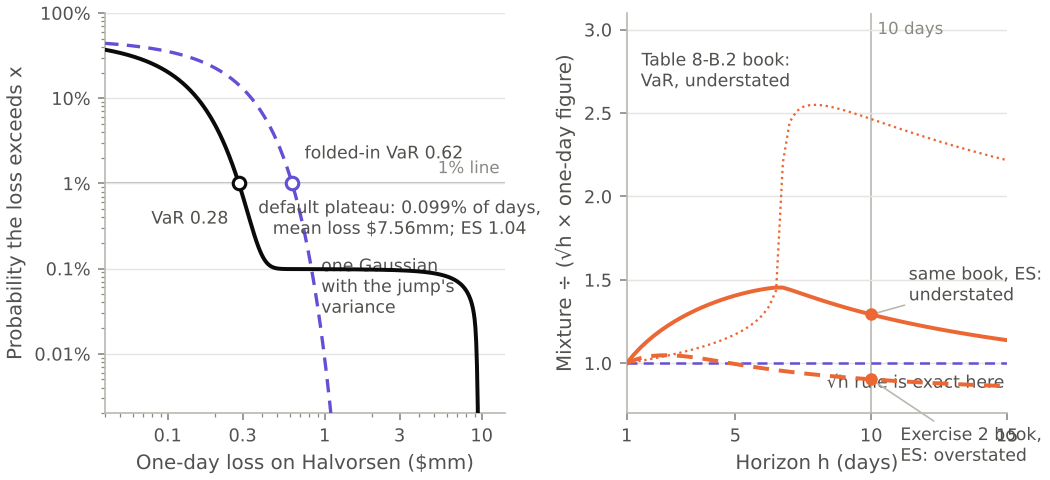
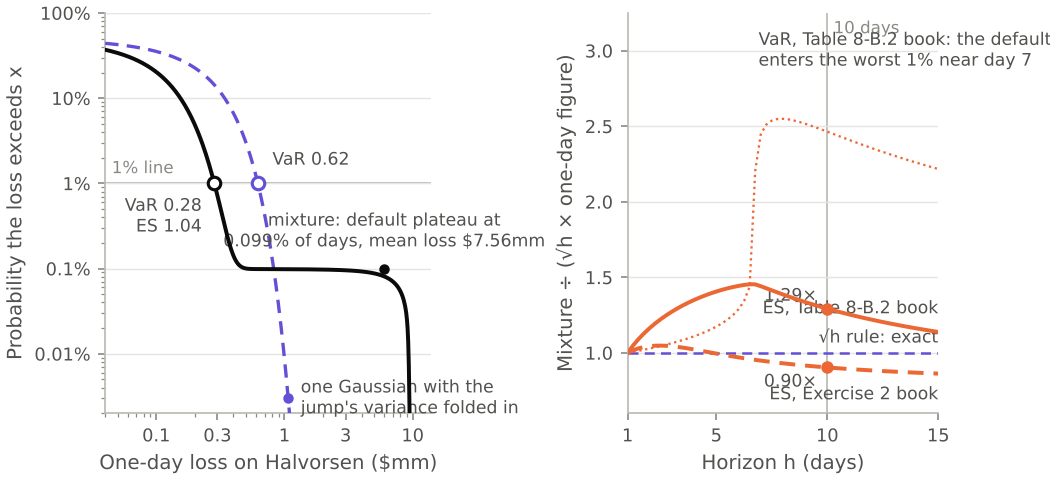
Snapshot: in-flight Edition 2 work
Claude-Session: https://claude.ai/code/session_01PHHQVL5vNoxjdDFeTkxsPq

diff --git a/tools/figures/ch08b.py b/tools/figures/ch08b.py
@@ -296,7 +296,7 @@ def fig_mixture_traps():
         b.annotate(f"{arr[iA]:.2f}\u00d7", (10, arr[iA]), xytext=(-5, dy), textcoords="offset points",
                    ha="right", va="center", fontsize=8.3, color=INK_2)
     print("mixture figure:", f"Halvorsen VaR {var_h:.3f}, ES {es_h:.3f}, folded sd {sd_blend:.3f}, folded VaR {var_b:.3f};",
-          f"ES ratio at 10d: A {res['A'][0][iA]:.2f}, B {res['B'][0][iB]:.2f}; VaR ratio A {res['A'][1][iA]:.2f}")
+          f"ES ratio at 10d: A {res['A'][0][iA]:.2f}, B {res['B'][0][iA]:.2f}; VaR ratio A {res['A'][1][iA]:.2f}")
     return finish(fig, "ch08b_mixture_traps")
 
 

diff --git a/book_src/14_ch14_default_and_recovery_cycle_lmt_era.md b/book_src/14_ch14_default_and_recovery_cycle_lmt_era.md
@@ -577,6 +577,50 @@ Two refinements carry most of the realism.
 
 > **View From Another Seat.** *The CLO manager: a co-op'd loan is a position you may not be able to sell in time.* To the CLO manager of §14.1, a co-op is less a strategy than a liquidity term. Joining one may be the only way to avoid being primed, but the buyers a signer may sell to are, in a stressed name, mostly funds that are already inside. If the loan is downgraded to CCC in the meantime, the manager can reach a CCC-bucket or overcollateralization test date holding a position it cannot move before the trustee report, with the overflow marked the way §14.1 describes, whatever the manager thinks the loan is worth. The public worry from this side of the market is less about any one co-op than about the maturity wall that makes co-ops necessary. Loomis Sayles' Full Discretion team, a large loan investor, wrote in its fourth-quarter 2025 letter that "we do believe the risk of liability management exercises will remain elevated as not all these maturities are refinanceable," in the same letter in which it saw "low risk of downturn in 2026" (Loomis Sayles, Q4 2025 letter, January 2026). That pairing, a benign cycle and elevated LME risk, is the two-axis world of §14.4 in a practitioner's words: the macro regime and the coalition regime are different dials. For this seat the question is not $\Pi(c)$. It is whether $c$ comes with a transfer restriction that will bind before the next test date.
 
+The Ad Hoc Group, represented by counsel, speaks in unison: *"We have signed a cooperation agreement. We decline to transact with the Company on a non-pro-rata basis. We note that there are forty-four other groups saying the same thing this year."* (Cooperation agreements signed in this book so far: two, plus forty-five in 2024 alone. The counter has overflowed its integer type.)
+
+#### The courts calendar, or Optimum one docket entry at a time
+
+*(The desk, its calendar and every line of dialogue are fictional; each docket entry, filing and figure is public record and cited.)*
+
+Every Monday at 8:15 a.m., before the European runs are digested, Theo updates the courts calendar. It is the least glamorous job on the desk and the one he was given in his first week, on the theory that a former restructuring banker would at least know what a docket is. The calendar has one row per legal event that could move a recovery: the date, the forum, the judge, the contract words or doctrine at issue, the direction for the excluded holders, and a column headed `status` that is almost always `pending`. It feeds the courts table in §14.6 and, through it, the regime filter in §14.7. Most Mondays Theo reads scheduling orders and notices of appearance and writes `no change` thirty times. Ines says this is the most important thirty minutes of his week. Theo suspects she says it to everyone who has the job.
+
+Optimum is the row that never sits still. Theo inherited it with a dozen entries and read them end to end on his first Monday, which is how he found out that they read like a thriller written by a court clerk.
+
+It starts in June 2024, when lenders to CSC Holdings, the main borrowing group of the cable company then called Altice USA and since renamed Optimum Communications, signed a cooperation agreement that claimed about 99% of CSC's roughly \$21.8bn of debt. On the threshold arithmetic of §14.5.1 that is the end of the uptier channel. With coverage of 99% and a bare-majority amendment threshold, nearly half the co-op would have to defect before a sponsor could build a majority, and the co-op itself, as the company later described it, barred its members from dealing with the company unless a two-thirds supermajority of them agreed. Kaz runs the numbers on a napkin and gets a breaking probability so small that the floating-point type complains. "The table agreed not to be bluffed," says Ines. "So watch what the sponsor does instead."
+
+What the company did instead was the two things the model says a fully covered borrower will do: go around the table, and sue it.
+
+On 25 November 2025 Optimum and CSC Holdings sued their co-op lenders in the Southern District of New York (*Optimum Communications, Inc. v. Apollo Capital Management, L.P.*, No. 1:25-cv-09785). The named defendants include Apollo, Ares and BlackRock, along with other large credit managers. The theory is antitrust: price-fixing and a group boycott under section 1 of the Sherman Act, on the argument that lenders who agree to deal with a borrower only as a bloc are a cartel in the market for leveraged finance. The complaint alleges the co-op lenders hold 88% of a "Leveraged-Finance Market" that the complaint defines for itself (Cleary Gottlieb, 18 December 2025). CreditSights reported "significant bond price declines" the next day, without publishing cents. The entry for that day reads: direction for the co-op lenders, negative if the suit survives; direction for the bonds, already answered by the market.
+
+"Group boycott," says Kaz, reading over Theo's shoulder. "Is that when the lenders all refuse to go to the company's Christmas party?"
+
+"Close enough to be dangerous," says Mags. "It's when competitors agree not to deal with someone. The question is whether lenders to one borrower are competitors at all, or one class with one interest. *Sharon Steel* says the competition happens when the debt is issued. The company says blocking access to new credit is something else." She shrugs. "Back in my day we'd have called it a steering committee and gone to lunch."
+
+On 6 February 2026 the defendants moved to dismiss; an amended complaint followed in February. On 19 February Judge Jeannette Vargas declined to stay discovery while the motion was pending, which means that the lenders' internal emails about the co-op began to be a thing that could be read, whatever happened to the motion. Trade groups for lenders and asset managers, the LSTA among them, filed amicus briefs in support of dismissal in late March. The calendar acquired a second Optimum row that spring, and then a third, and Hana's pipeline acquired a field called `discovery_open` that nobody had needed before.
+
+Then, at the end of May, the other move. In an 8-K filed on 1 June 2026, Optimum disclosed that it had moved Optimum East and its 50.01% stake in Lightpath, its fiber business, into an unrestricted subsidiary, "Unsub Topco," which sold \$300mm of preferred on 29 May. An unrestricted subsidiary sits outside the restricted group whose assets back CSC's debt, which is the whole point of putting assets there. It is $\lambda_{\text{away}}$ in a press release: a transaction that needs no vote from the class because it happens somewhere the class cannot reach.
+
+"Unsub Topco," says Theo, to nobody in particular, reading the row. "The subsidiary the lenders can't follow."
+
+On 30 June 2026 the quarterly report said the rest out loud. Optimum's 10-Q for the second quarter disclosed principal of about \$4.12bn maturing in April 2027 and \$2.225bn in July 2027, against cash and equivalents of about \$1.30bn, and concluded that without committed financing there was substantial doubt about the company's ability to continue as a going concern (Optimum 10-Q, period ended 30 June 2026). On 4 August 2026 the court confined discovery to a court-defined "phase one" (ECF 132). As of mid-October 2026, the row for the motion to dismiss still says `pending`.
+
+He reads the row aloud at the Monday meeting, and for once nobody says "no change." The re-default clock is running toward April 2027 with no cure in sight. The coalition variable is at its maximum and has pushed the action out of the uptier channel and into the drop-down channel. And the court variable is live in two directions at once: a pending ruling on whether the co-op is lawful, and a discovery process that may decide what co-op lenders are willing to say to each other in writing from now on.
+
+"So the table agreed not to be bluffed," says Mags, "and the borrower sued the table."
+
+Kaz has the napkin out again. "A commitment device strong enough to move $\Pi(c)$ by four orders of magnitude is strong enough to get sued. And I can't estimate the chance that a court calls it unlawful, because the history has no such ruling in it."
+
+"Then it goes in as a scenario with a date," says Ines, "not a parameter."
+
+"Which side are we?" asks Kaz.
+
+"Neither," says Ines. "We're the dealer. Which is its own seat." The dealer's seat closes §14.9. The fund that wants to own the table comes first.
+
+> **View From Another Seat.** *The opportunistic or special-situations fund: the co-op is the product.* For a fund whose edge is documents, counsel and a willingness to be restricted for months, a co-op is not a defensive necessity. It is the thing being sold. Buy enough of a class to matter, organize the rest of the class around you, and the sponsor must negotiate with your group or go around it, and going around it is expensive and, after Optimum, litigated. The public example is Veritas in 2024. Elliott and allied holders of more than half of Veritas's \$2.5bn of loans and \$1.8bn of bonds objected to Carlyle's proposal, which they said paid under 60 cents in cash, and "have already formed their own 'co-operation agreement'" (Hedgeweek, 25 June 2024, citing the *Financial Times*). From this seat a thirty-cent bond is an option on a negotiation, and the fund wants to own the blocking position in the vote rather than forecast it. For a systematic desk, a known blocker accumulating in a name is a state variable: the hazard of a non-pro-rata deal falls, the variance of recovery rises, and the RFQ flow from that kind of fund, like the one-way request in the cold open, is information about which hump the paper is heading for.
+
+That may be the seat the cold open's buyer is sitting in. The ledger behind Theo's Optimum row, and behind the other co-ops of 2024, closes the section.
+
 > **Trend Watch.** *Co-ops, from four a year to forty-five.*
 > - **Counts.** About 45 co-op agreements were signed in the US in 2024, against an average of about four a year over 2018–2023, a figure 9fin notes was cited in Optimum's antitrust complaint (9fin, *A Crash Course on Co-ops*).
 > - **Variants.** Offensive, defensive, and carve-out co-ops, with carve-out the fastest-growing. In event studies, equity reacts negatively to co-op announcements and firm value rises modestly (Seaton, HLS Bankruptcy Roundtable, 14 April 2026).
@@ -585,40 +629,6 @@ Two refinements carry most of the realism.
 > - **The antitrust front.** Optimum (f/k/a Altice USA) and CSC Holdings sued the co-op lenders in the S.D.N.Y. under the Sherman Act, alleging price-fixing and a group boycott. The complaint alleges the co-op lenders hold 88% of a "Leveraged-Finance Market" it defines itself (Cleary Gottlieb, *Cooperation, Not a Cartel*, 18 December 2025). Defenses include rule-of-reason analysis, market definition, and *Sharon Steel v. Chase Manhattan* (2d Cir. 1982). Similar challenges (Optimum, Selecta) were "in their early days" in early 2026 (Wachtell, 3 February 2026).
 > - **Europe.** Baker McKenzie's January 2026 leveraged finance report describes "a growing backlash against cooperation agreements" in 2025, as non-pro-rata deals at Victoria PLC, Ardagh, Selecta and Hunkemöller used intercreditor clauses and slim majority thresholds.
 > - **What it means for the desk.** Co-op coverage $c$ is now a first-class feature in the non-pro-rata hazard and in stage 0 of the recovery model. High coverage moves risk from the uptier channel to the drop-down and deal-away channel, so it shifts $\lambda_{\text{away}}$ up even as it pushes $\Pi(c)$ down. And the legal status of the co-op itself is a regime variable with a pending date.
-
-The Ad Hoc Group, represented by counsel, speaks in unison: *"We have signed a cooperation agreement. We decline to transact with the Company on a non-pro-rata basis. We note that there are forty-four other groups saying the same thing this year."* (Cooperation agreements signed in this book so far: one in Chapter 3, plus forty-five in 2024 alone. The counter has overflowed its integer type.)
-
-**The courts calendar, or Optimum one docket entry at a time.** Every Monday at 8:15 a.m., before the European runs are digested and long before anything interesting happens, Theo updates the courts calendar. It is the least glamorous job on the desk and the one he was given in his first week, on the theory that a former restructuring banker would at least know what a docket is. The calendar is a table with one row per legal event that could move a recovery: the date, the forum, the judge, the contract words or doctrine at issue, the direction for the excluded holders, and a column headed `status` that is almost always `pending`. It feeds the courts table in §14.6 and, through it, the regime filter in §14.7. Most Mondays nothing changes. Theo opens the docket for each live case, reads the new entries, finds that they are scheduling orders and notices of appearance, and writes `no change` thirty times. Ines says this is the most important thirty minutes of his week. Theo suspects she says it to everyone who has the job.
-
-Optimum is the row that never sits still, and laid end to end its entries read like a thriller written by a court clerk.
-
-It starts in June 2024, when lenders to CSC Holdings, the main borrowing group of the cable company then called Altice USA and since renamed Optimum Communications, signed a cooperation agreement that claimed about 99% of CSC's roughly \$21.8bn of debt. On the threshold arithmetic of §14.5.1 that is the end of the uptier channel. With coverage of 99% and a bare-majority amendment threshold, nearly half the co-op would have to defect before a sponsor could build a majority, and the co-op itself, as the company later described it, barred its members from dealing with the company unless a two-thirds supermajority of them agreed. Kaz runs the numbers on a napkin and gets a breaking probability so small that the floating-point type complains. "The table agreed not to be bluffed," says Ines. "So watch what the sponsor does instead."
-
-What the company did instead was the two things the model says a fully covered borrower will do: go around the table, and sue it.
-
-On 25 November 2025 Optimum and CSC Holdings sued their co-op lenders in the Southern District of New York (*Optimum Communications, Inc. v. Apollo Capital Management, L.P.*, No. 1:25-cv-09785). The named defendants include Apollo, Ares and BlackRock, along with other large credit managers. The theory is antitrust: price-fixing and a group boycott under section 1 of the Sherman Act, on the argument that lenders who agree to deal with a borrower only as a bloc are a cartel in the market for leveraged finance. The complaint alleges the co-op lenders hold 88% of a "Leveraged-Finance Market" that the complaint defines for itself (Cleary Gottlieb, 18 December 2025). CreditSights reported "significant bond price declines" the next day, without publishing cents. Theo adds a row. Direction for the co-op lenders: negative if the suit survives. Direction for the bonds: the market had already told him.
-
-"Group boycott," says Kaz, reading over his shoulder. "Is that when the lenders all refuse to go to the company's Christmas party?"
-
-"Close enough to be dangerous," says Mags. "It's when competitors agree not to deal with someone. The question is whether lenders to one borrower are competitors at all, or one class with one interest. *Sharon Steel* says the competition happens when the debt is issued. The company says blocking access to new credit is something else." She shrugs. "Back in my day we'd have called it a steering committee and gone to lunch."
-
-On 6 February 2026 the defendants moved to dismiss; an amended complaint followed in February. On 19 February Judge Jeannette Vargas declined to stay discovery while the motion was pending, which means that the lenders' internal emails about the co-op began to be a thing that could be read, whatever happened to the motion. Trade groups for lenders and asset managers, the LSTA among them, filed amicus briefs in support of dismissal in late March. Theo's calendar acquires a second Optimum row, and then a third, and Hana's pipeline acquires a field called `discovery_open` that nobody had needed before.
-
-Then, at the end of May, the other move. In an 8-K filed on 1 June 2026, Optimum disclosed that it had moved Optimum East and its 50.01% stake in Lightpath, its fiber business, into an unrestricted subsidiary, "Unsub Topco," which sold \$300mm of preferred on 29 May. An unrestricted subsidiary sits outside the restricted group whose assets back CSC's debt, which is the whole point of putting assets there. It is $\lambda_{\text{away}}$ in a press release: a transaction that needs no vote from the class because it happens somewhere the class cannot reach.
-
-"Unsub Topco," says Theo, to nobody in particular, as he types the row. "The subsidiary the lenders can't follow."
-
-On 30 June 2026 the quarterly report said the rest out loud. Optimum's 10-Q for the second quarter disclosed principal of about \$4.12bn maturing in April 2027 and \$2.225bn in July 2027, against cash and equivalents of about \$1.30bn, and concluded that without committed financing there was substantial doubt about the company's ability to continue as a going concern (Optimum 10-Q, period ended 30 June 2026). On 4 August 2026 the court confined discovery to a court-defined "phase one" (ECF 132). As of mid-October 2026, Theo's row for the motion to dismiss still says `pending`.
-
-He reads the row aloud at the Monday meeting, and for once nobody says "no change." The row is the whole chapter in one name. The re-default clock is running toward April 2027, with no cure in sight. The coalition variable is at its maximum, 99% coverage, and has pushed the action out of the uptier channel and into the drop-down channel, exactly as the Trend Watch box above predicts. The court variable is live in two directions at once: a pending ruling on whether the co-op is lawful, and a discovery process that may decide what the co-op lenders are willing to say to each other in writing from now on. And the recovery for any holder depends less on the word "first" in the loan's name than on which side of the table it sits on when the April 2027 wall arrives.
-
-"Which side are we?" asks Kaz.
-
-"Neither," says Ines. "We're the dealer. Which is its own seat." She means the next two boxes, and the one at the end of §14.9.
-
-Optimum sued them for being a cartel. The table agreed not to be bluffed, and the borrower sued the table. The model lesson is that a commitment device strong enough to change $\Pi(c)$ by four orders of magnitude is strong enough to draw antitrust scrutiny. The probability that a court treats co-ops as unlawful belongs in the model as a scenario with a date, not as a parameter estimated from history, because the history has no such ruling in it yet.
-
-> **View From Another Seat.** *The opportunistic or special-situations fund: the co-op is the product.* For a fund whose edge is documents, counsel and a willingness to be restricted for months, a co-op is not a defensive necessity. It is the thing being sold. Buy enough of a class to matter, organize the rest of the class around you, and the sponsor must negotiate with your group or go around it, and going around it is expensive and, after Optimum, litigated. The public example is Veritas in 2024. Elliott and allied holders of more than half of Veritas's \$2.5bn of loans and \$1.8bn of bonds objected to Carlyle's proposal, which they said paid under 60 cents in cash, and "have already formed their own 'co-operation agreement'" (Hedgeweek, 25 June 2024, citing the *Financial Times*). From this seat a thirty-cent bond is an option on a negotiation, and the fund wants to own the blocking position in the vote rather than forecast it. For a systematic desk, a known blocker accumulating in a name is a state variable: the hazard of a non-pro-rata deal falls, the variance of recovery rises, and the RFQ flow from that kind of fund, like the one-way request in the cold open, is information about which hump the paper is heading for.
 
 ## 14.6 The Courts as a Regime Variable
 

diff --git a/book_src/13_ch13_codifying_lmt_game_theory.md b/book_src/13_ch13_codifying_lmt_game_theory.md
@@ -791,7 +791,7 @@ and the quote is approximately $P \approx P_{\text{no-LMT}} - 100\cdot\text{EPL}
 
 That check opens onto the larger judgment about what the PRS is for. It is good at ranking. Within one vintage of documents and one forum, a name scored 0.19 is more likely to see an LMT next year than a name scored 0.05, and the ordering survives most of the ways the model can be misspecified. It is much worse at levels, and three things break the level. The first is vintage. Buccola and Nini found that before 2020 only 40% of loans restricted uptiers, and that by mid-2022, 85% of new loans explicitly blocked them (Trend Watch, §13.3). A base rate fitted on the earlier documents describes a population that no longer exists, which is why the prior's mean comes from events in documents of the same vintage. The second is forum. Courts in Texas and New York read buyback exceptions for the borrower, against it, and for it again within about two years (§13.9), and a score with a static forum coefficient averages across a sign flip. The third is the holder block, which the score sees only dimly. `holder_hhi` and `coop_reported` arrive late and dirty (Priya's Tuesday in §13.6), and Robertshaw showed that a Required-Lender position can be bought quietly in a single month (§13.4). A desk that uses the PRS to decide which forty documents to read first is using it well. A desk that multiplies a PRS of 0.19 by three other factors and quotes the product to the second decimal has mistaken a ranking for a measurement, and the EPL inherits the false precision.
 
-> **Ways This Blows Up.** *Separation.* On the training data, `loan_px < 80` and `runway_months < 9` together nearly separate events from non-events. An unpenalized logistic responds by sending those coefficients toward infinity and reporting a PRS of 1.000 for every distressed name, which is confident and useless. The Gaussian prior keeps $\hat\beta$ finite. The prior's most important covariate is Theo's 13-week model, reborn as `runway_months`: the spreadsheet he carries for emotional support is now the only thing standing between the desk and an infinite coefficient.
+> **Ways This Blows Up.** *Separation.* On the training data, `loan_px < 80` and `runway_months < 9` together nearly separate events from non-events. An unpenalized logistic responds by sending those coefficients toward infinity and reporting a PRS of 1.000 for every distressed name, which is confident and useless. The Gaussian prior keeps $\hat\beta$ finite. The covariate doing most of the separating is Theo's `runway_months` (§13.2.1); without the prior, his runway would earn an infinite coefficient.
 
 #### The Full Derivation: the MAP estimate and its two limits
 
@@ -817,7 +817,7 @@ with boundary conditions $\tau \to \infty \Rightarrow \Lambda \to 0$ (the MLE) a
 
 **Schemas.** `entities`: `id` (str), `value` (float, \$mm, $\ge 0$), `parent` (entity id or `None`). `claims`: `id`, `creditor` (`"ext"` or entity id), `debtor` (entity id), `face` (\$mm, $>0$), `rank` (int, 1 = most senior), `reduce_by` (list of claim ids on the same debt owed by co-obligors). `features`: one row per borrower-year, columns as in the §13.2.1 table; `buyback_exception` one-hot; `y` = 1 if an LMT closed within 12 months. **Edge cases:** no claims at an entity (all value is residual); $N = 0$ or $p = 1$ in the uptier (guard the divisions); co-op share above $1 - \theta$ (return `None`, never an empty coalition); burn $\le 0$ in the runway (cap at 120 months); quasi-separation (prior required, never `tau=inf` in production). **Stability:** overflow-safe logistic via `tanh`; `logaddexp` in the likelihood; Newton steps with step-halving; clearing iteration capped at 10,000 with a convergence error, not a silent return.
 
-The closed form in §13.7 is a pleasure to derive and a trap to deploy. It knows about one SPV, one guarantee and one first lien that holds still. Trinseo had a revolver ahead of everything, Super HoldCo lenders with a pledge over a \$1,508mm intercompany claim, OpCo lenders sitting on 2 to 9 cents, and a lawsuit about whether the make-wholes belong in the denominator at all. Nobody solves that by hand on the morning a disclosure statement drops, and Theo's 13-week model, which has never met a subsidiary that owns a lender, will not help. What a desk wants is one function that takes whatever the parser pulled out of the documents (who owes whom, how much, at what rank, who owns which entity) and returns recoveries that add up to the value in the structure, every time. "Adds up" is the part ROBO can be tested on, so it is the part the listing is built around.
+The closed form in §13.7 is a pleasure to derive and a trap to deploy. It knows about one SPV, one guarantee and one first lien that holds still. Trinseo had a revolver ahead of everything, Super HoldCo lenders with a pledge over a \$1,508mm intercompany claim, OpCo lenders sitting on 2 to 9 cents, and a lawsuit about whether the make-wholes belong in the denominator at all. Nobody solves that by hand on the morning a disclosure statement drops. What a desk wants is one function that takes whatever the parser pulled out of the documents (who owes whom, how much, at what rank, who owns which entity) and returns recoveries that add up to the value in the structure, every time. "Adds up" is the part ROBO can be tested on, so it is the part the listing is built around.
 
 `waterfall_clearing` takes two inputs. `ents` maps each entity to its external `value` (\$mm) and its `parent`, with `None` marking the top of the tree. `claims` lists the `creditor` (`"ext"` or another entity), `debtor`, `face`, `rank` (1 is most senior) and an optional `reduce_by` list of claim ids, meaning that whatever a co-obligor has already paid on the same debt comes off what this claim may still assert. It returns payments by claim id and the equity left at the top.
 
@@ -843,7 +843,7 @@ The edge case that bites is $p = 1$. Nobody is excluded, so `uptier` returns `na
 
 The 89 are all the literature has. A logistic regression with a dozen features and 89 positives will fit anything you hand it and, when the distressed names separate cleanly from the rest, report a PRS of 1.000 with a straight face. The desk's answer is not to give up but to say, in code, what it believed before the data arrived: a prior on each slope from the published studies, and a Beta prior on the base rate so the intercept cannot wander to wherever the sample happened to put it. Then it proves the shrinkage is a dial rather than a fog by turning the dial to each end. The last lines of the listing do what the desk actually wants: multiply the PRS by the other three factors and print one number in points, which Ines can hold up against a bid.
 
-The listing runs on synthetic borrower-years so the fitter can be graded against known coefficients. `simulate` draws 400 rows of five features (blocker, unsub capacity, loan price, runway, repeat sponsor), `BETA_TRUE` generates the events, and `brentq` solves the intercept so that about 15% of rows come out positive. `BETA_PRIOR` is the "published" prior: right signs, smaller magnitudes. `runway_months` is Theo's 13-week model reduced to one function, capped at 120 when burn is zero or negative.
+The listing runs on synthetic borrower-years so the fitter can be graded against known coefficients. `simulate` draws 400 rows of five features (blocker, unsub capacity, loan price, runway, repeat sponsor), `BETA_TRUE` generates the events, and `brentq` solves the intercept so that about 15% of rows come out positive. `BETA_PRIOR` is the "published" prior: right signs, smaller magnitudes. `runway_months` is the §13.2.1 definition, capped at 120 months when burn is zero or negative.
 
 `fit_map(Z, y, prior, tau, a, b)` returns the intercept and slopes on standardized features. It maximizes the posterior of §13.8: the logistic likelihood, a Gaussian $\mathcal{N}(\text{prior}, \tau^2)$ on each slope, and a Beta$(a, b)$ on $\sigma(\beta_0)$, with defaults $a = 2$, $b = 38$, a 5% base rate worth forty pseudo-observations. Newton steps use an analytic gradient and Hessian, and each step is halved until it stops raising the negative log posterior. Setting `tau=np.inf` with `a=b=0` gives the plain MLE, which is how the listing proves both limits of the shrinkage formula: a huge `tau` reproduces the MLE, a tiny one returns the prior. The other checks: the intercept first-order condition holds to 1e-6; the mean fitted PRS stays within 1.5 points of the observed rate; a 200-resample bootstrap band covers the estimate; a blocker lowers the score and unsub capacity raises it; and on a fresh holdout the fit beats the constant base rate on Brier score.
 

diff --git a/book_src/02_ch02_revolutions_in_credit_trading.md b/book_src/02_ch02_revolutions_in_credit_trading.md
@@ -491,9 +491,7 @@ $$
 
 The odds of filling must exceed the ratio of leakage cost to savings. With the BBB line's numbers, $c_A = 4$ bp, $\pi_A = 0.55$, $J_R = 0.90 \times 7 + 0.10 \times 20 = 8.3$ bp (with $\kappa = 20$ bp) and $\chi_A = 1.5$ bp, the threshold is $1.5/4.3 = 0.35$, the fill odds are $0.55/0.45 = 1.22$, and $J_{A\to R} = 2.2 + 0.45 \times 9.8 = 6.6$ bp against 8.3 bp for going straight to dealers.
 
-> **Ways This Blows Up.** *Fair-weather parameters.* Every number in the router was estimated on 2023–2025 data, mostly in calm markets. In stress, dealers widen their algorithm parameters or switch them off, fill rates fall and leakage rises, and all of it happens at once. Buy-side traders at FILS Europe in 2026 said platforms and electronic liquidity providers "help mainly in normal markets" (The DESK, Oct 2026). In March 2026, median EUR IG bid-ask rose to 64% above its January average, and it took 4 weeks (EUR IG), 6 (US HY), 8 (US IG) and 13 (EUR HY) to normalize (MarketAxess data via The DESK, Oct 1, 2026). A router trained on the calm sample will be most confident on exactly the day it is most wrong. Condition $\pi_p$, $c_p$ and $\chi_p$ on a stress regime variable (§2.7 offers one: the ETF–NAV basis), and give the kill switch to a human.
-
-<!-- CHECK: trend_part_v dossier (2026-10-15 row) quotes the FILS panel as "help more in quiet markets"; the box above says "help mainly in normal markets". Reconcile against The DESK article. -->
+> **Ways This Blows Up.** *Fair-weather parameters.* Every number in the router was estimated on 2023–2025 data, mostly in calm markets. In stress, dealers widen their algorithm parameters or switch them off, fill rates fall and leakage rises, and all of it happens at once. At FILS Europe in 2026, a Swiss Life Asset Managers trader said platforms and electronic liquidity providers "help more in quiet markets or normal market conditions" (The DESK, 15 Oct 2026). In March 2026, median EUR IG bid-ask rose to 64% above its January average, and it took 4 weeks (EUR IG), 6 (US HY), 8 (US IG) and 13 (EUR HY) to normalize (MarketAxess data via The DESK, Oct 1, 2026). A router trained on the calm sample will be most confident on exactly the day it is most wrong. Condition $\pi_p$, $c_p$ and $\chi_p$ on a stress regime variable (§2.7 offers one: the ETF–NAV basis), and give the kill switch to a human.
 
 Automation, then, pushed $\Pr(\text{fill})$ on small, calm lines close to a constant, and it turned $\mathbb{E}[c]$ from a measurement into a forecast: a forecast that is good in exactly the weather it was trained in.
 
@@ -665,7 +663,7 @@ Theo is quiet for a moment, because his own corner of March 2020 was very differ
 
 That sentence is what the BIS later spent a quarterly review establishing. Todorov's study of bond-ETF arbitrage (*BIS Quarterly Review*, March 2021) measured tracking errors above 200 bp in March 2020, against a historical average of 0.7 bp. The band of §2.7.1 had not broken. Its two terms had exploded at once. The cost of liquidating a redemption basket, $\mathcal{C}^{\text{red}}_t$, was enormous, because nobody could sell the bonds, and $\eta_t$, the gap between the stale marks and the truth, was large and negative, because the evaluated prices behind the NAV were still describing February. The 5% was both at once, and nothing on the screen said how much of each. The next day the gap was nearly gone: LQD's discount on 13 March was 0.19%. Kaz's friend, had the trade been possible, would have watched the gap close and kept very little of it, because it closed mostly by the NAV falling to meet the ETF. The "basket at NAV" that Kaz had planned to short was never for sale at that price. The bonds caught up with the truth; the ETF had been there a day early.
 
-Some of the market did keep answering, and not the part anyone expected. "The people still responding to RFQs that month weren't all banks," Ines says. "Some were funds with models that said the bonds were cheap and no risk manager telling them the balance sheet was full." The numbers bear her out: the Man research behind §2.4's figure cites \$116.5bn traded by quant funds on MarketAxess Open Trading in the first three quarters of 2020, up 150% on the year before. MarketAxess's own count points the same way, with the algorithmic share of the prices on its platform falling from 60% to 50% during 2020 (*AxessPoint*, 14 July 2025), a year in which dealers' machines stepped back while funds' machines stepped in. That is the paradox §2.9.3 takes up from Man's own words. In the worst week in a decade, the hardest tickets went back to the phone while the marginal liquidity provider moved onto the wire.
+Some of the market did keep answering, and not the part anyone expected. "The people still responding to RFQs that month weren't all banks," Ines says. "Some were funds with models that said the bonds were cheap and no risk manager telling them the balance sheet was full." The numbers bear her out: the Man research behind §2.4's figure cites \$116.5bn traded by quant funds on MarketAxess Open Trading in the first three quarters of 2020, up 150% on the year before. MarketAxess's own count points the same way, with the algorithmic share of the prices on its platform falling from 60% to 50% during 2020 (*AxessPoint*, 14 July 2025), a loss of machine presence that April 2025 did not repeat (§2.9.3). That is the paradox §2.9.3 takes up from Man's own words. In the worst week in a decade, the hardest tickets went back to the phone while the marginal liquidity provider moved onto the wire.
 
 The rest of the spring belonged to the Fed, and Mags tells that part with something close to admiration. The Secondary Market Corporate Credit Facility was announced on 23 March and expanded on 9 April. Its first purchases, on 12 May, were ETFs; individual bonds followed on 16 June; and by 31 August 2021 every holding had been sold or had matured (New York Fed). "The day the Fed said 'ETFs,'" Mags says, "I knew the ETF had won the argument. When the lender of last resort decides the fastest way into your market is a ticker symbol, the ticker symbol is the market." Haddad, Moreira and Muir's finding is the dry version: the announcements did most of the work, and the discounts closed well before the Fed had bought much of anything.
 
@@ -675,7 +673,7 @@ Ines writes one line on the whiteboard and leaves it there for Theo.
 
 Theo starts to answer. Ines shakes her head. "You've got one of the three tools. The band tells you what the 5% is made of. You haven't met the other two yet." The question stays on the board. Answering it properly needs the cost units of §2.9.1 and the theorem of §2.9.2, and §2.9.3 comes back to 3:30 p.m. on 12 March with all three in hand.
 
-<!-- CHECK: the brief cites an algorithmic share of MarketAxess prices falling from 60% to 50% in 2020 (AxessPoint); the figure is not in the dossiers, so it is omitted. LQD/VCIT/SPIB figures checked against Ch 1 §1.8.3 (match). -->
+<!-- LQD/VCIT/SPIB figures checked against Ch 1 §1.8.3 (match). -->
 
 ETFs, then, gave credit a fill when the bonds themselves had none, raising $\Pr(\text{fill})$ for basket risk at exactly the moment single-bond fills vanished, and they made the price of immediacy, $\mathbb{E}[c]$ for the whole market, a number on a screen that updates every second.
 

diff --git a/book_src/00_00_preface.md b/book_src/00_00_preface.md
@@ -43,7 +43,7 @@ The banker enters through Chapter 3, which is written for you; its RSSG Edge Led
 
 **Seat 4: risk and strat.** 4-B, 6-B and 7-B are yours to live in. Then 8-B and 8-C, Chapter 22 (regulation and the forces reshaping liquidity), Part VI (Chapters 23–24: cross-asset convexity, the volatility surface, the bond–CDS basis) and Chapter 27 (systems). Appendix D is the plumbing reference.
 
-Whatever the seat, come back for the Parts you skipped, including Parts III, V, VI, VII, and VIII where they were not on your route, and keep Appendix A open the whole time.
+Whatever the seat, come back for the Parts you skipped, and keep Appendix A open the whole time.
 
 **The AI-agent specifier reads with a lens rather than a seat.** Read this preface, then Appendix A, then go through every `### Specification for AI Implementation` block in the book in order, starting with Chapters 5–8 (distributions, structural models, labeling, decomposition), then Chapter 13 (the Priming Risk Score), Chapters 18–19 (quoting and basket pricing), and Chapters 25–27 (document parsing, agent workflows, and system architecture). Chapter 26 is the operating manual for directing coding agents and should be read before you direct one. Then go back and read the prose: a spec you do not understand is a spec you cannot debug.
 
@@ -54,6 +54,8 @@ There is also an unofficial path for the reader who is here for the trends: Chap
 Twenty-eight chapters written by a committee tend to read like twenty-eight chapters written by a committee. So we use a small recurring cast. They are fictional. Every line of dialogue in the book belongs to them. Real firms and real people appear only with verifiable facts attached.
 
 **Theo Marsh** (he/him) is you, or the version of you who is three weeks into a systematic credit desk after years at PJT RSSG. He carries his old 13-week cash flow model on a USB stick "for emotional support." He asks, "But what does the credit agreement say?" He is usually right, which is annoying for everyone else and the reason he was hired.
+
+How he got the seat happens off the page, and a reader who has not been hired yet should know it. There was no quant résumé to speak of. There was a final-round conversation in which Ines asked him to make a market on something he had never priced, and he did it badly, out loud, and then said which fact would move his number and in which direction. The desk can teach the arithmetic. It cannot teach which paragraph of a credit agreement moves the price, and that was the one line on his résumé nobody else in the room could claim.
 
 **Ines Okafor** (she/her) runs credit market making and used to play poker professionally, which she regards as the same job with worse coffee. She frames every problem as a hand: what's the pot, what are the odds, and who at this table knows more than you? She calls markouts "the hand history" and reviews them the way other people review their text messages at 1 a.m.
 
@@ -83,6 +85,15 @@ Between those elements you will find a small set of boxes, each with a fixed lab
 Trend Watch boxes deserve a paragraph of their own, because "trend" means two things in this book and we care about both. The first meaning is the structural trends reshaping credit markets: electronification, portfolio trading, ETF-led liquidity, the LMT era, private credit, the regulatory agenda. Every chapter includes at least one Trend Watch box with dated, sourced figures showing how its topic changed over 2018–2026, and Appendix C stitches them into a single timeline. The second meaning is trend as a strategy: time-series momentum in credit indices and excess returns, cross-asset lead–lag, trend combined with carry, and how it behaved in 2008, 2020, and 2022. That gets Chapter 10 to itself and recurs through Parts III and VIII. If a chapter does not tell you what changed and when, we consider it unfinished.
 
 Each chapter opens with a cold-open desk scene and closes with a Desk Debrief (takeaways sharp enough to tape to a monitor), a compact Spec You Hand the Robot, and a few exercises, some of them funny, all of them real.
+
+Two marks need a legend. The first is the tag at the end of a Desk Debrief bullet, such as `[L6]`, or `[L4, L7]` when one bullet carries two laws. It points to one of the sixteen **Laws of the Desk** in Appendix E: sentences that recurred in at least three Debriefs, each compressing an equation the book derives. They come in four families, one question each, and the numbering is permanent, so a tag means the same thing in every edition.
+
+- **The Ruler** asks what a number is measured against. (1) IDO or it didn't happen. (2) Bonds are not bets; issuers are. (3) DTS is the unit of credit beta. (4) Say which measure you are in.
+- **The Table** asks what a price must survive before it is a price. (5) A bid is a posterior, not a markup, and winning is information. (6) Charge the jump once. (7) Default is a menu, and recovery is a U. (8) Every clause is a payoff function, and one word can be the whole loss.
+- **The Tape** asks what the data and the backtest are hiding. (9) A mark is a moving average of the truth. (10) Costs decide, and capacity is a square. (11) Label every number. (12) Count your trials.
+- **The Clock** asks when the outcome arrives and who decides it. (13) The label is the model. (14) Censoring is the signal. (15) Forced selling is a supply schedule, not a mood. (16) The court is a random variable with timestamps.
+
+The second mark is the **Prerequisites** box at the head of a chapter that leans on earlier ones. It names, by section number, what the chapter assumes and where that is built, and when the answer is "nothing else" it says so. Many of the pointers land on the lettered primers (4-B, 6-B, 7-B, 12-B), and where a box says to read one first, it means it. If the box names a tool you already own, skip the section it cites; if a piece of mathematics is new, the plain-language box labeled Math, Gently introduces it at its first use.
 
 ## A note on how this book is made, and why you should check the build stamp
 

diff --git a/state/revisions/ed2/16_ch16_post_reorg_equities_and_claims.lessons.log.md b/state/revisions/ed2/16_ch16_post_reorg_equities_and_claims.lessons.log.md
@@ -97,7 +97,7 @@ Growth 34641 / 15148 = **2.29×**, against the 1.6–1.9× target (24,237–28,7
 - [x] 10. §16.3.4: cut the prose copy of the three observations; rewrite the Listing 16.2 explanation (b11, c). Note: list kept alone; listing opens on Harlan's Thursday committee.
 - [x] 11. §16.4.2: demote fixed-point and Poisson boxes; cut the duplicate sentence in the Full Derivation (b13, b14, d). Note: 8.66/8.58/8.56 kept in gloss; pointers to §13.7, §6.1.4.
 - [x] 12. §16.4.3: cut 491's lesson sentences; coda becomes a pointer; rewrite the Listing 16.3 explanation; drop "check against filings" (b15, b16, c, e). Note: scene carries spot lesson; listing opens on Kaz's rebuild.
-- [ ] 13. §16.5.2–16.5.3: trim statute framing; demote lognormal and hazard boxes (hazard with numbers that do not solve Exercise 5); move the Jensen box ahead of the result; retire the pair When-to for a bar-date beat (b18–b21, c, d).
+- [x] 13. §16.5.2–16.5.3: trim statute framing; demote lognormal and hazard boxes (hazard with numbers that do not solve Exercise 5); move the Jensen box ahead of the result; retire the pair When-to for a bar-date beat (b18–b21, c, d). Note: hazard gloss uses h=2/1; Mags asks "Has the bar date passed?"
 - [ ] 14. §16.5 Spec: moment-of-need paragraph moved ahead of the Spec to break the box run; trim the claims-buyer seat; rewrite the Listing 16.4 explanation (c, d).
 - [ ] 15. §16.6: `####` long scene with fiction label; fix the doubled "finished in the money"; trim 722 and 726; `####` decision point; Docket Diary hedge (b16, b17, b23, e, f).
 - [ ] 16. §16.7: hedge 738; `####` scene heading; trim 762; runway When-to becomes a Mags beat; `####` decision point; Ines's cash-games line (b22, c, e, f, g).
